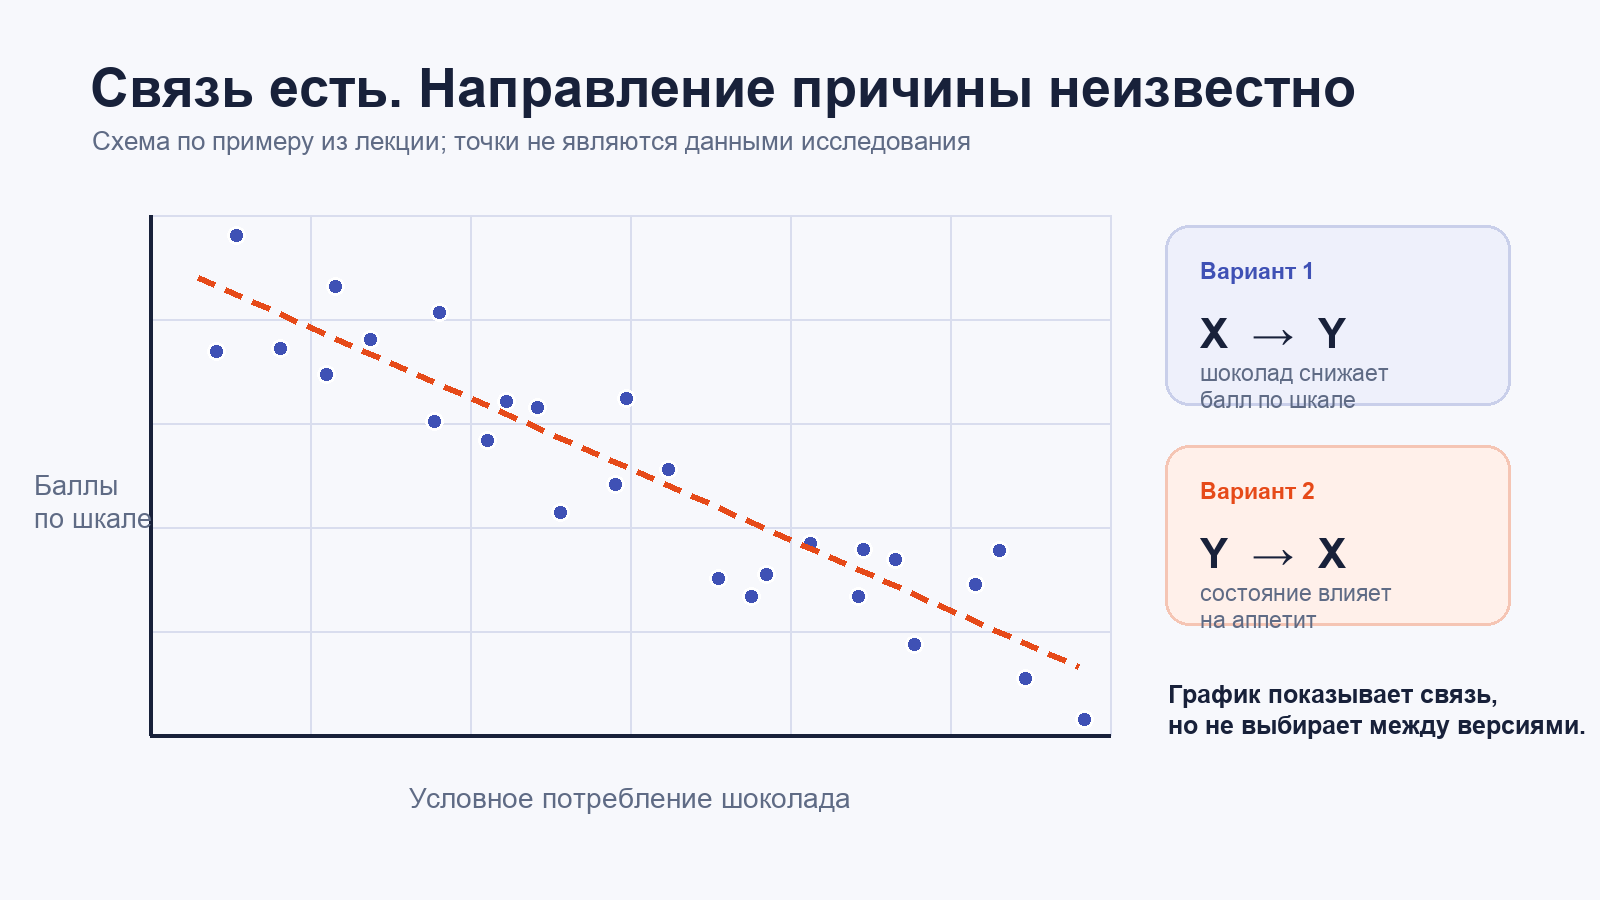
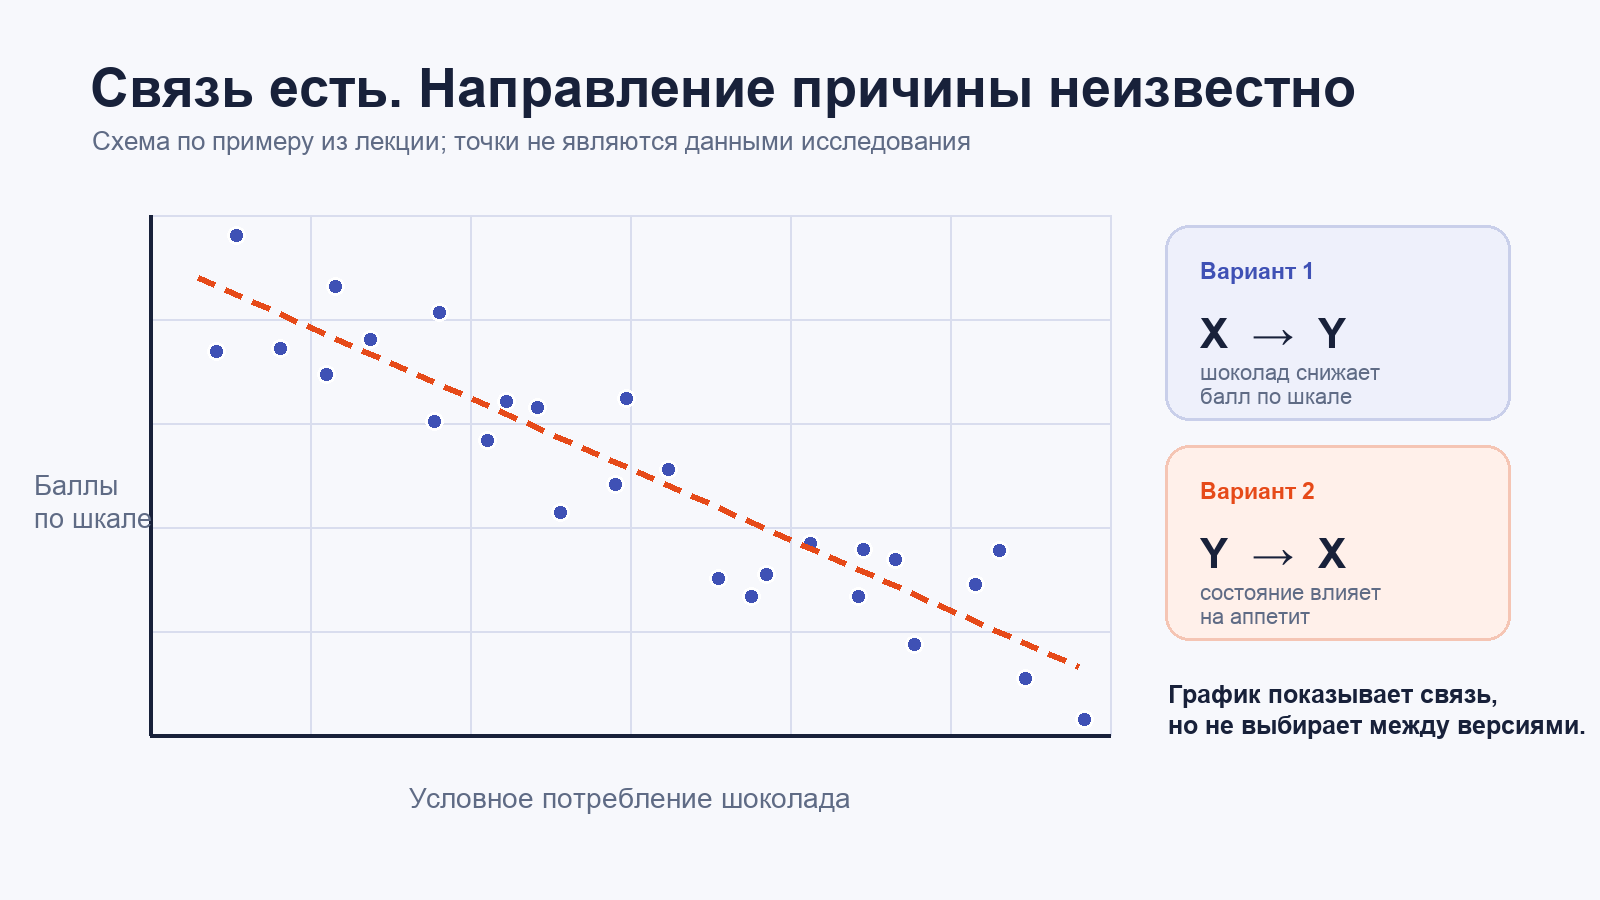
Polish lecture charts and source notes

Changed region(s): [[0.7188, 0.6533, 0.9375, 0.7156], [0.7188, 0.4044, 0.9375, 0.4667]]

diff --git a/docs/stylesheets/extra.css b/docs/stylesheets/extra.css
@@ -179,103 +179,28 @@ body {
 }
 
 .lecture-figure {
-  margin: 1.5rem 0;
+  margin: 1.4rem 0;
+  padding: 1rem;
+  border: 1px solid var(--notes-line);
+  border-radius: 1rem;
+  background: var(--notes-surface);
 }
 
 .lecture-figure img {
   display: block;
   width: 100%;
-  border: 1px solid var(--notes-line);
-  border-radius: 1rem;
-  background: #f5f6fb;
+  height: auto;
+  margin: 0;
+  border-radius: 0.7rem;
+  box-shadow: 0 0 0 1px var(--notes-line);
+  cursor: zoom-in;
 }
 
 .lecture-figure figcaption {
-  margin-top: 0.55rem;
-  color: var(--notes-muted);
-  font-size: 0.74rem;
-  line-height: 1.45;
-}
-
-.note-figure {
-  margin: 1.4rem 0;
-  padding: 1rem;
-  border: 1px solid var(--notes-line);
-  border-radius: 1rem;
-  background: color-mix(in srgb, var(--notes-surface) 52%, transparent);
-}
-
-.note-figure figcaption {
-  margin: 0 0 0.7rem;
-  color: var(--notes-ink);
-  font-size: 0.82rem;
-  font-weight: 750;
-}
-
-.figure-note {
-  margin: 0.4rem 0 0;
+  margin-top: 0.75rem;
   color: var(--notes-muted);
   font-size: 0.72rem;
-}
-
-.chart {
-  display: block;
-  width: 100%;
-  height: auto;
-  color: var(--notes-muted);
-}
-
-.chart text {
-  fill: currentColor;
-  font-family: inherit;
-  font-size: 14px;
-}
-
-.chart .chart-note,
-.chart .chart-label {
-  font-size: 12px;
-}
-
-.chart-grid line,
-.chart-axis {
-  stroke: var(--notes-line);
-  stroke-width: 2;
-}
-
-.chart-points circle {
-  fill: #2b7bdc;
-  opacity: 0.9;
-}
-
-.chart-line {
-  fill: none;
-  stroke: var(--notes-orange);
-  stroke-linecap: round;
-  stroke-linejoin: round;
-  stroke-width: 4;
-}
-
-.chart-line--blue {
-  stroke: #2b7bdc;
-}
-
-.chart-line--orange {
-  stroke: #b85c38;
-}
-
-.chart-line--dashed {
-  stroke: #8a8f9f;
-  stroke-dasharray: 10 8;
-}
-
-.mini-charts {
-  display: grid;
-  grid-template-columns: repeat(3, minmax(0, 1fr));
-  gap: 0.75rem;
-}
-
-.mini-charts--two {
-  grid-template-columns: repeat(2, minmax(0, 1fr));
+  line-height: 1.5;
 }
 
 @media screen and (max-width: 44rem) {
@@ -294,9 +219,7 @@ body {
   .course-grid {
     grid-template-columns: 1fr;
   }
-
-  .mini-charts,
-  .mini-charts--two {
-    grid-template-columns: 1fr;
+  .lecture-figure {
+    padding: 0.65rem;
   }
 }

diff --git a/README.md b/README.md
@@ -8,7 +8,7 @@
 
 - готовый конспект вводной лекции по организации и экономике здравоохранения;
 - структура дисциплин набора 2026 по официальному учебному плану;
-- заглушки для следующих предметов и единый шаблон конспекта;
+- разделы для следующих предметов по учебному плану;
 - полнотекстовый поиск, светлая и тёмная темы, мобильная навигация.
 
 ## Локальный запуск
